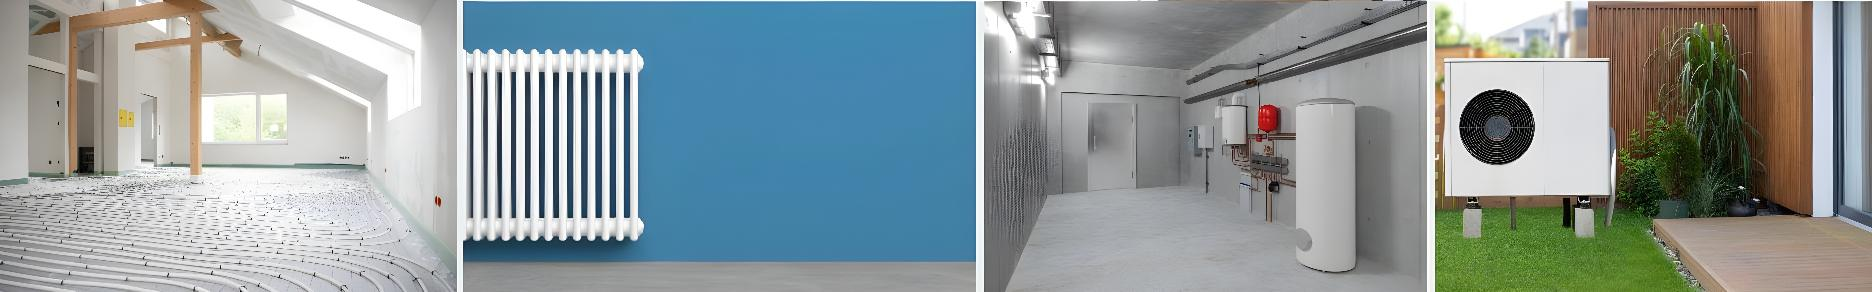
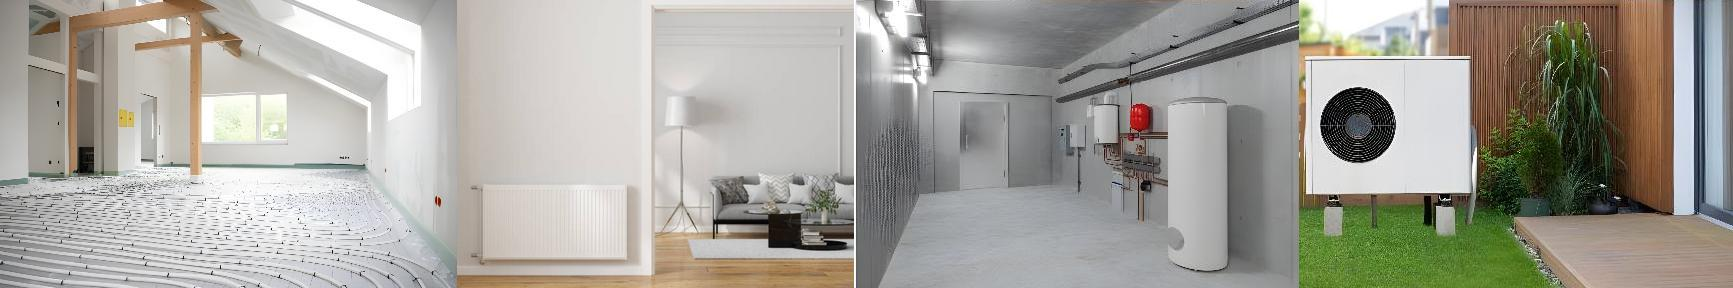
services images

diff --git a/services.html b/services.html
@@ -41,14 +41,17 @@
         <div class="service-item">
             <h3>Sanitär</h3>
             <p>Unsere zertifizierten Klempner stehen für eine Vielzahl von Dienstleistungen zur Verfügung, einschließlich Rohrinstallationen, Reparaturen und Wartungen, um Ihre Systeme reibungslos am Laufen zu halten.</p>
+            <img src="Sanitaer.jpg" alt="Sanitär">
         </div>
         <div class="service-item">
             <h3>Wartung & Reparaturen</h3>
             <p>Regelmäßige Wartung und schnelle Reparaturen sind entscheidend für die Lebensdauer Ihrer Heizungs- und Sanitärsysteme. Vertrauen Sie Aqua Heat Solution für zuverlässige und erschwingliche Dienstleistungen.</p>
+            <img src="Reparaturen.jpg" alt="Wartung & Reparaturen">
         </div>
         <div class="service-item">
             <h3>Notdienst</h3>
             <p>Wir bieten einen 24/7-Notdienst für Heizung und Sanitär, damit Sie nie ohne Wärme oder Wasser dastehen, wenn es darauf ankommt.</p>
+            <img src="Notdienst.jpg" alt="Notdienst">
         </div>
     </section>
     

diff --git a/styles.css b/styles.css
@@ -111,6 +111,14 @@ nav ul li a:hover {
     text-align: center;
 }
 
+/* General styling for service images */
+.service-item img {
+    width: 1024px; /* Default width for larger screens */
+    height: auto; /* Maintain aspect ratio */
+    margin-right: 20px; /* Space between image and text */
+    border-radius: 8px; /* Rounded corners */
+}
+
 /* About Page Styling */
 .about-page {
     padding: 60px 20px;
@@ -601,6 +609,17 @@ button[type="submit"] {
 
     #why-choose-us p, #moto p {
         font-size: 1rem;
+    }
+    
+   .service-item img {
+      width: 100%; /* Make image take full width on mobile */
+      height: auto; /* Keep aspect ratio */
+      margin: 0 0 15px 0; /* Adjust margins for mobile */
+    }
+  
+   .service-item {
+      display: block; /* Stack image and text vertically */
+      text-align: center; /* Center-align the text */
     }
     
 }
